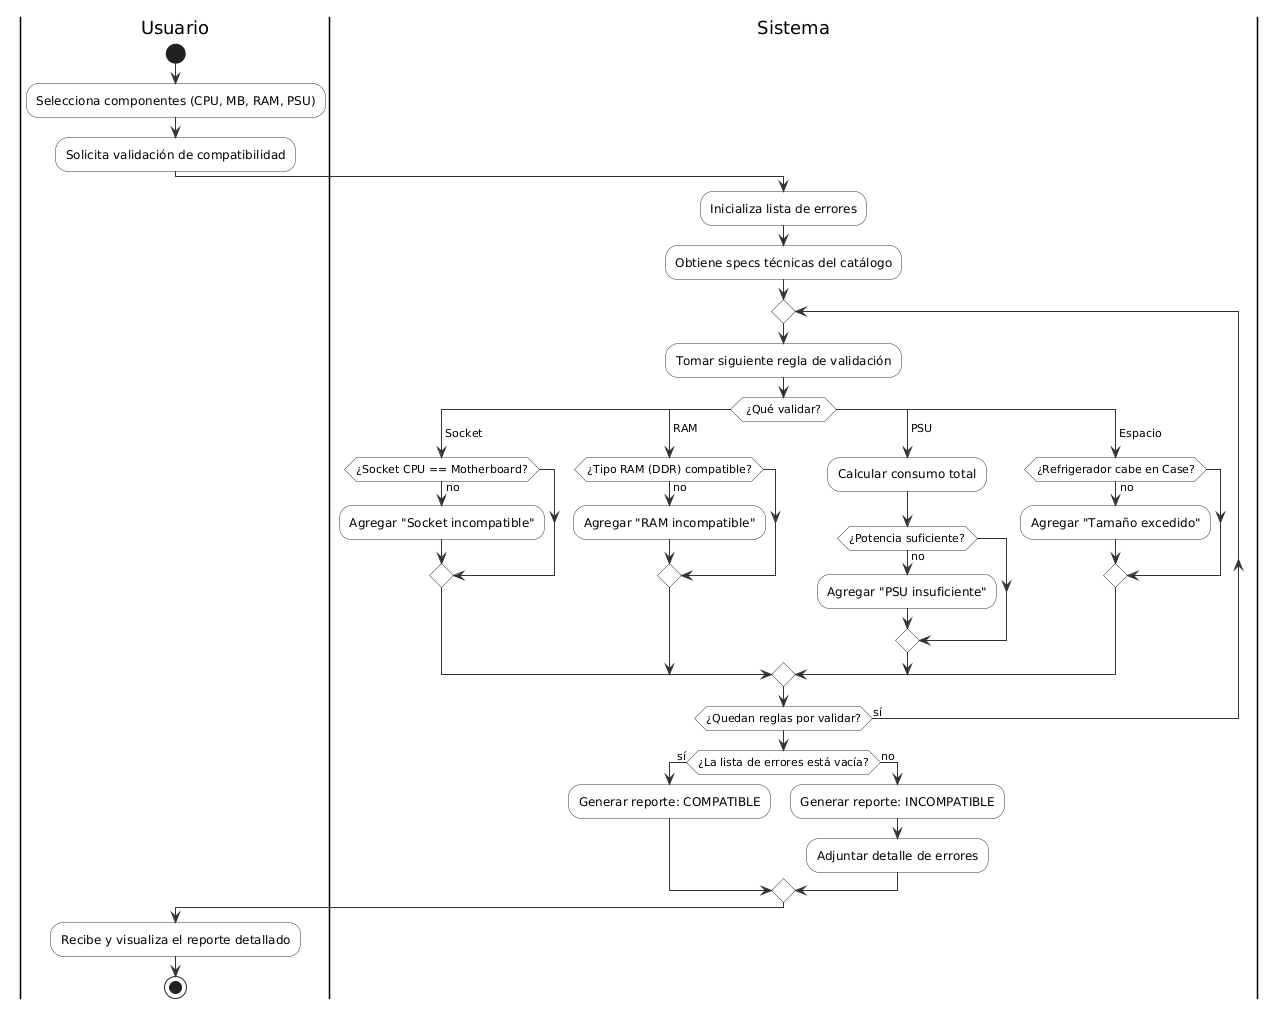
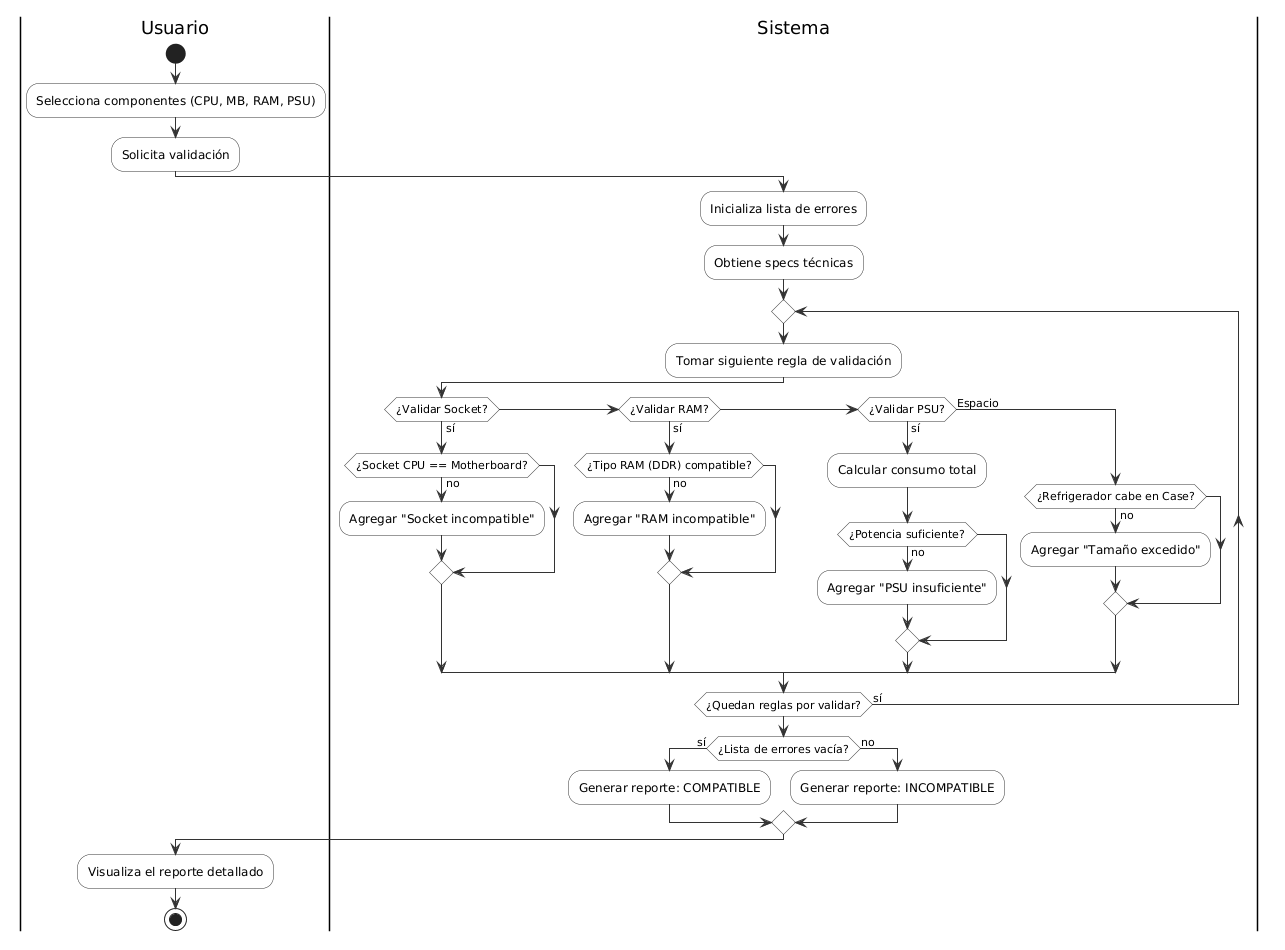
Correcciones marcadas por Code Reviw

diff --git a/docs/03-specs/actividad-obligatoria-3/spec-arq-diagramas.md b/docs/03-specs/actividad-obligatoria-3/spec-arq-diagramas.md
@@ -363,36 +363,36 @@ Sistema:
 
 #### 🔹 **Requisito 1: Estructura de Diagramas (4 diagramas)**
 
-- [ ] **Diagrama 1: Búsqueda y Filtrado**
-  - [ ] Inicio (start node)
-  - [ ] Fin (end node)
-  - [ ] ≥3 actividades principales
-  - [ ] ≥2 decisiones if/else (marca, precio)
-  - [ ] ≥1 ciclo (iteración sobre catálogo)
-  - [ ] Swimlanes Usuario | Sistema
+- [x] **Diagrama 1: Búsqueda y Filtrado**
+  - [x] Inicio (start node)
+  - [x] Fin (end node)
+  - [x] ≥3 actividades principales
+  - [x] ≥2 decisiones if/else (marca, precio)
+  - [x] ≥1 ciclo (iteración sobre catálogo)
+  - [x] Swimlanes Usuario | Sistema
 
-- [ ] **Diagrama 2: Gestión de Carrito**
-  - [ ] Inicio y fin
-  - [ ] ≥4 actividades (seleccionar, validar, agregar, recalcular)
-  - [ ] ≥2 decisiones (stock disponible, cantidad válida)
-  - [ ] ≥1 ciclo (recalcular total para cada item)
-  - [ ] Swimlanes Usuario | Sistema
+- [x] **Diagrama 2: Gestión de Carrito**
+  - [x] Inicio y fin
+  - [x] ≥4 actividades (seleccionar, validar, agregar, recalcular)
+  - [x] ≥2 decisiones (stock disponible, cantidad válida)
+  - [x] ≥1 ciclo (recalcular total para cada item)
+  - [x] Swimlanes Usuario | Sistema
 
-- [ ] **Diagrama 3: Validación de Compatibilidad**
-  - [ ] Inicio y fin
-  - [ ] ≥5 actividades (ingresa componentes, valida cada componente, genera reporte)
-  - [ ] ≥3 decisiones (socket, RAM type, PSU watts)
-  - [ ] ≥1 ciclo (validar cada componente de array)
-  - [ ] Swimlanes Usuario | Sistema
-  - [ ] Decisiones encadenadas lógicamente
+- [x] **Diagrama 3: Validación de Compatibilidad**
+  - [x] Inicio y fin
+  - [x] ≥5 actividades (ingresa componentes, valida cada componente, genera reporte)
+  - [x] ≥3 decisiones (socket, RAM type, PSU watts)
+  - [x] ≥1 ciclo (validar cada componente de array)
+  - [x] Swimlanes Usuario | Sistema
+  - [x] Decisiones encadenadas lógicamente
 
-- [ ] **Diagrama 4: Generación de Recibo**
-  - [ ] Inicio y fin
-  - [ ] ≥5 actividades (confirma, valida, genera número, itemiza, calcula)
-  - [ ] ≥2 decisiones (carrito válido, aplicar descuento)
-  - [ ] ≥1 ciclo (iterar items para recibo)
-  - [ ] Swimlanes Usuario | Sistema
-  - [ ] Formato realista de flujo de transacción
+- [x] **Diagrama 4: Generación de Recibo**
+  - [x] Inicio y fin
+  - [x] ≥5 actividades (confirma, valida, genera número, itemiza, calcula)
+  - [x] ≥2 decisiones (carrito válido, aplicar descuento)
+  - [x] ≥1 ciclo (iterar items para recibo)
+  - [x] Swimlanes Usuario | Sistema
+  - [x] Formato realista de flujo de transacción
 
 #### 🔹 **Requisito 2: Coherencia con Especificación**
 

diff --git a/changelog.md b/changelog.md
@@ -8,7 +8,7 @@ Este archivo se actualiza con cada Pull Request para registrar avances y correcc
 
 ### Added
 
-- [feature/coord-devops-update-figma-and-readme] Actualizo spec, agrego 4 diagramas de actividades
+- [feature/arq-diagramas-actividades] Actualizo spec, agrego 4 diagramas de actividades
   PR: [#112](https://github.com/GonzaloBarbano/E-commerce/pull/112) - @GonzaloBarbano (Arquitecto de diagramas de actividades)
 
 - [feature/coord-devops-update-figma-and-readme] Actualizo spec
